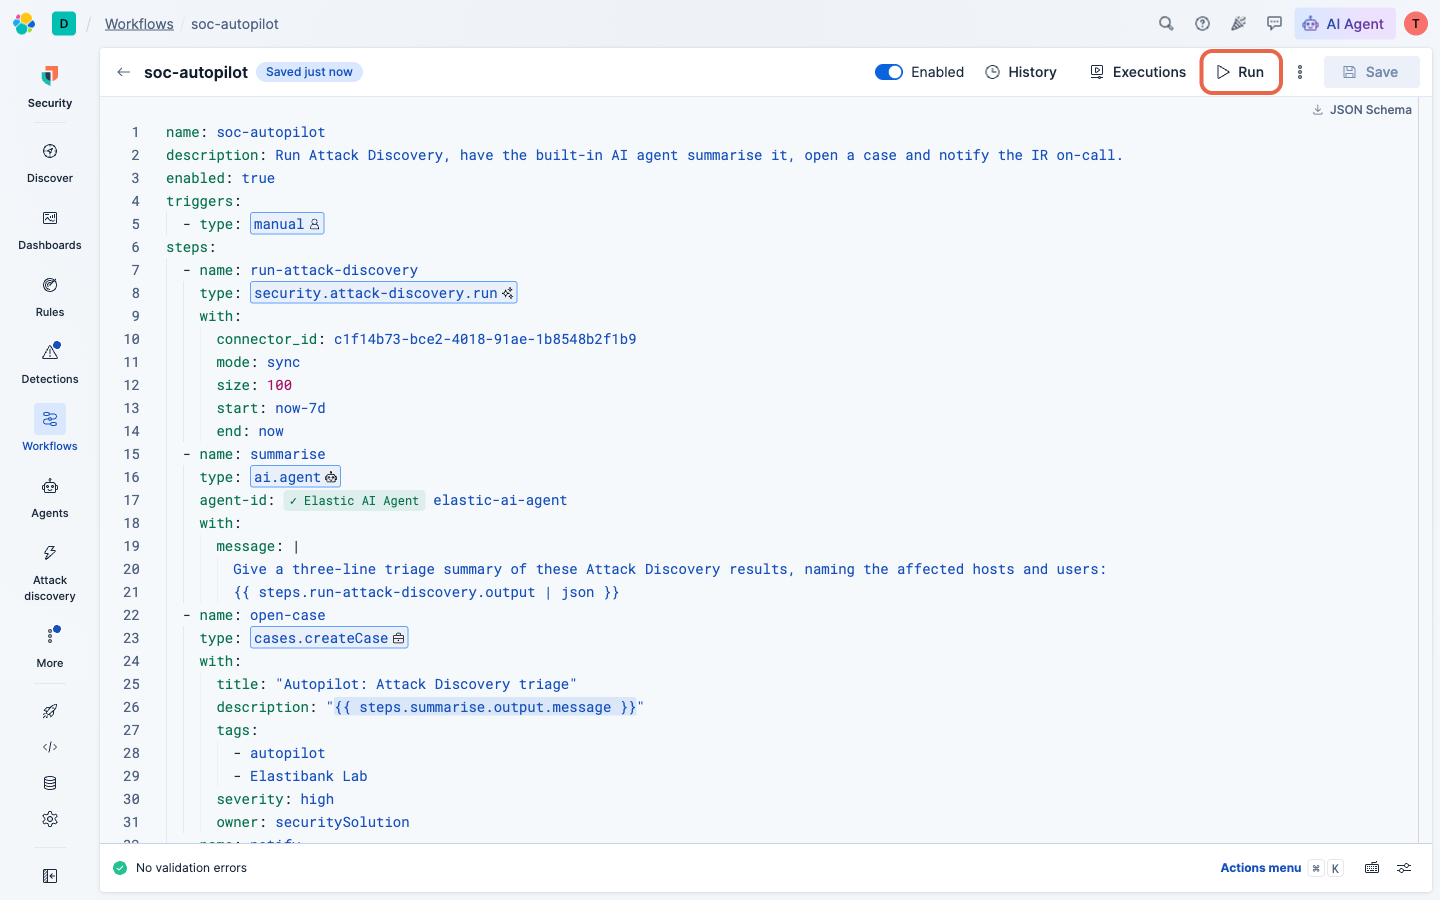
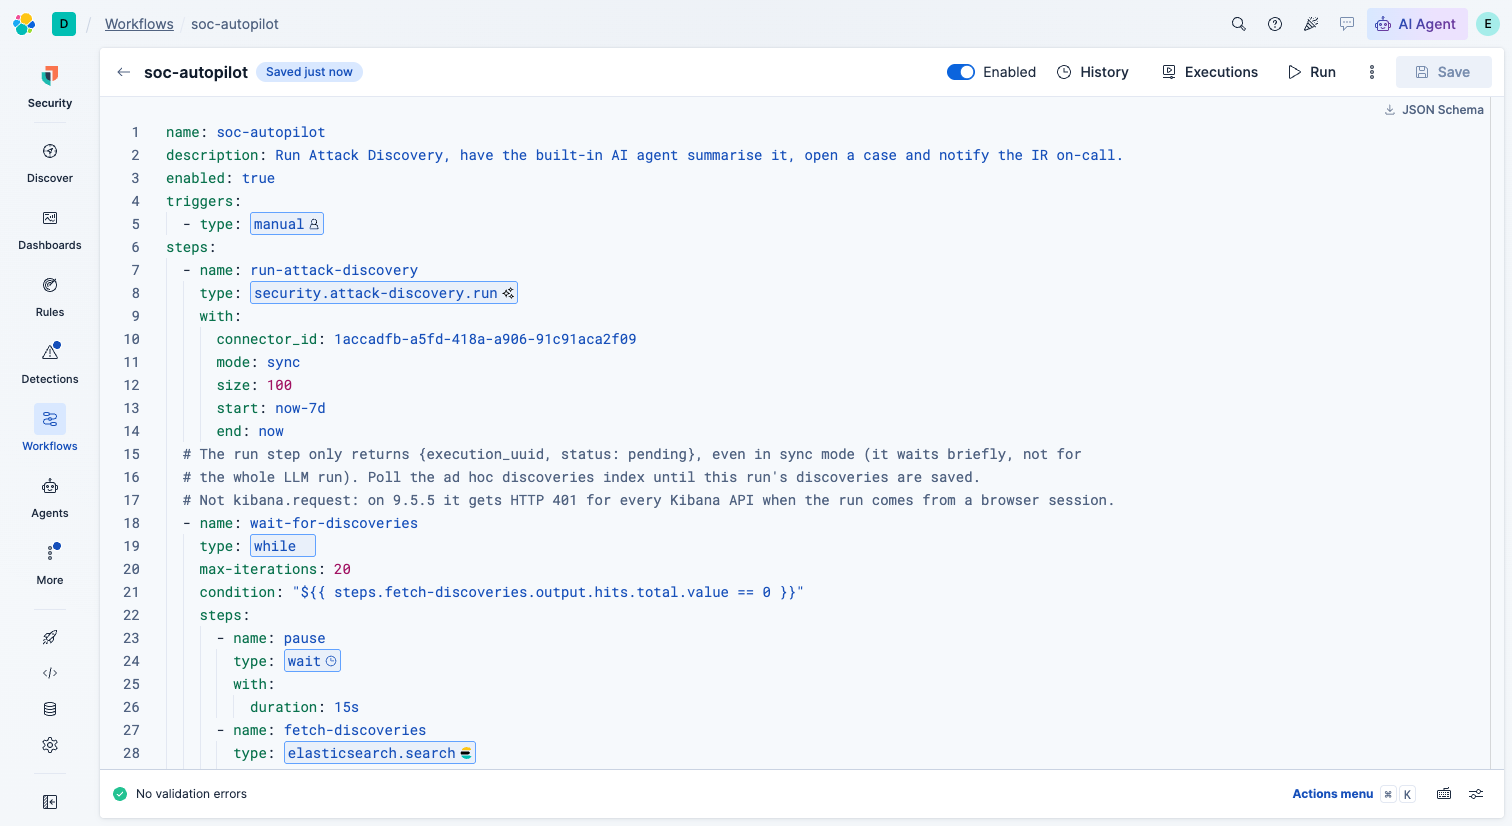
Agent keeps the built-in tools, host.type and network.direction in the data, probe kubectl timeout, new Module 1 screenshot

diff --git a/scenario/generator/ecs.py b/scenario/generator/ecs.py
@@ -1,6 +1,7 @@
 """ECS document builders. Each returns (data_stream, source) so callers can route docs to a stream."""
 from __future__ import annotations
 
+import ipaddress
 import shlex
 from datetime import datetime, timezone
 
@@ -35,7 +36,17 @@ def _split_args(command_line: str) -> list[str]:
 
 
 def _host(h: Host) -> dict:
-    return {"name": h.name, "ip": [h.ip], "os": {"type": h.os}}
+    return {"name": h.name, "ip": [h.ip], "os": {"type": h.os}, "type": "workstation" if h.tier == 2 else "server"}
+
+
+_RFC1918 = tuple(ipaddress.ip_network(n) for n in ("10.0.0.0/8", "172.16.0.0/12", "192.168.0.0/16"))
+
+
+def _direction(dest_ip: str) -> str:
+    # Not ip.is_private: Python counts the documentation ranges (198.51.100.0/24, 203.0.113.0/24) the lab uses for
+    # internet addresses, the C2 among them, as private.
+    addr = ipaddress.ip_address(dest_ip)
+    return "internal" if any(addr in n for n in _RFC1918) else "egress"
 
 
 def process_start(
@@ -103,7 +114,7 @@ def network_flow(
     doc["host"] = _host(host)
     doc["source"] = {"ip": host.ip, "bytes": bytes_out}
     doc["destination"] = {"ip": dest_ip, "port": dest_port, "domain": domain, "bytes": bytes_in}
-    doc["network"] = {"transport": "tcp", "bytes": bytes_out + bytes_in}
+    doc["network"] = {"transport": "tcp", "bytes": bytes_out + bytes_in, "direction": _direction(dest_ip)}
     return stream, doc
 
 
